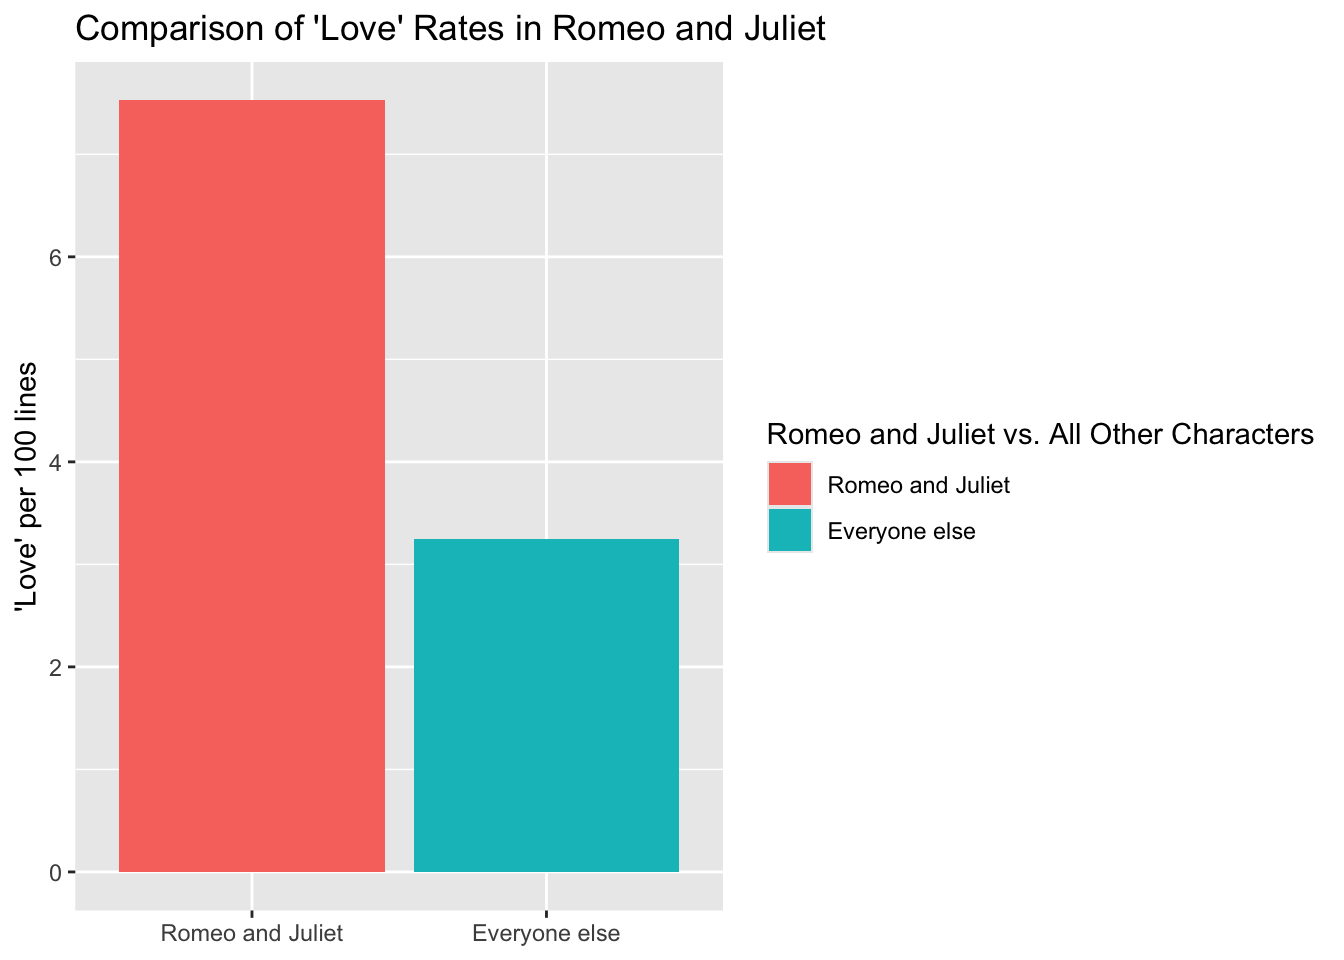
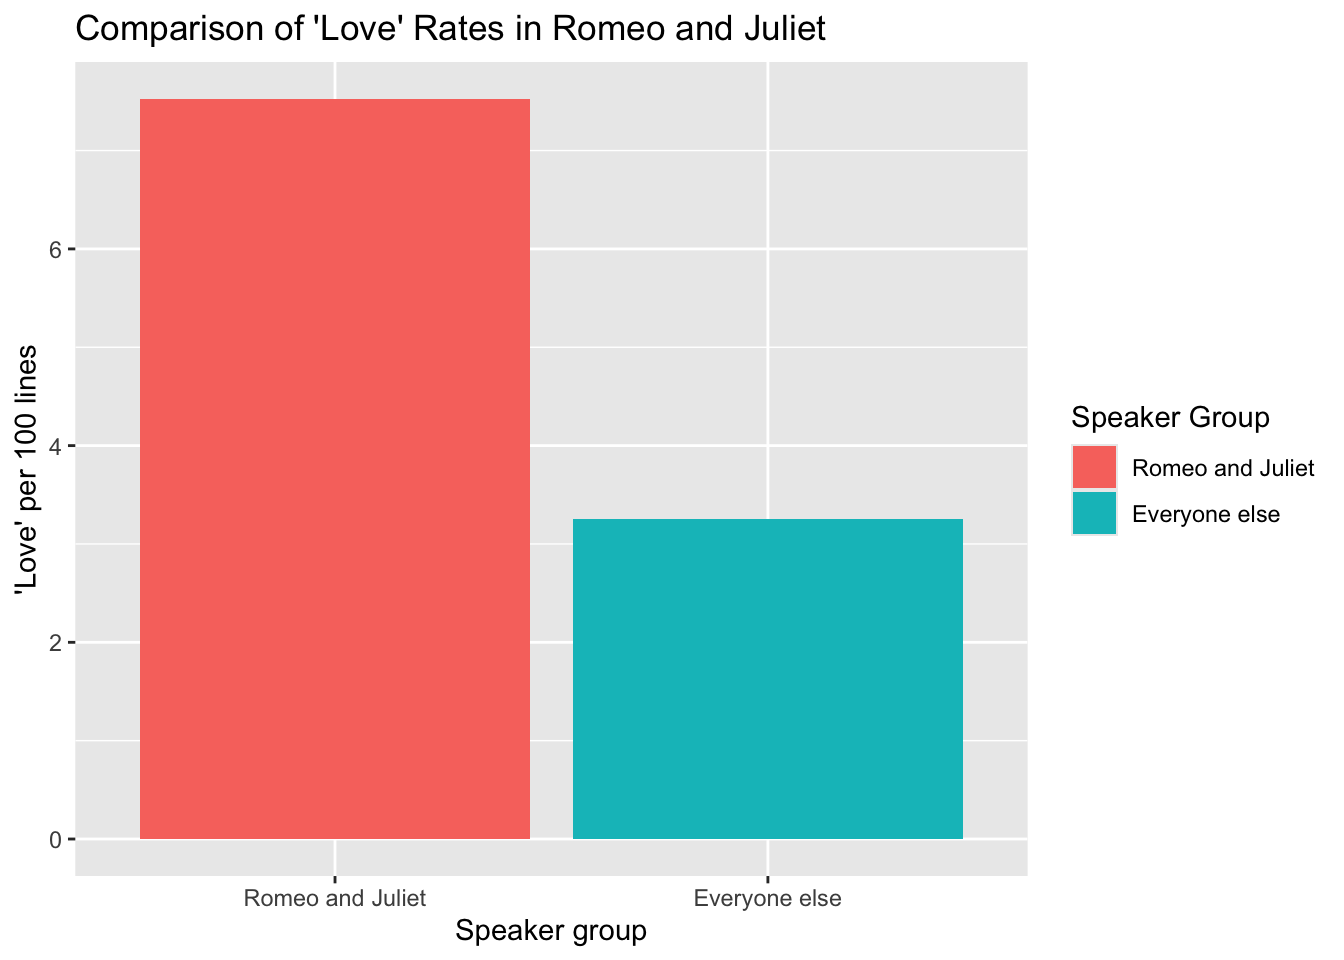
Project 2 (vF)

diff --git a/docs/shakespeare.html b/docs/shakespeare.html
@@ -381,7 +381,7 @@ pre > code.sourceCode > span > a:first-child::before { text-decoration: underlin
 </header>
 
 
-<p>This dataset contains dialogue from three of Shakespeare’s most recognized works: Hamlet, Macbeth, and Romeo and Juliet. I will only be working with Romeo and Juiliet, which was one of my favorite high school readings.</p>
+<p>This dataset contains dialogue from three of Shakespeare’s most recognized works: Hamlet, Macbeth, and Romeo and Juliet. I will only be working with Romeo and Juliet, which was one of my favorite high school readings. The two questions I aim to answer with these data visualizations are: 1. How frequently do Romeo and Juliet say the word ‘love’ compared to all other characters combined? 2. What are some words that come before ‘love’ and how do they vary across the two character groups (Romeo and Juliet vs.&nbsp;everyone else)?</p>
 <div class="cell">
 <details class="code-fold">
 <summary>Code</summary>
@@ -400,7 +400,7 @@ pre > code.sourceCode > span > a:first-child::before { text-decoration: underlin
 <span id="cb1-13"><a href="#cb1-13" aria-hidden="true" tabindex="-1"></a></span>
 <span id="cb1-14"><a href="#cb1-14" aria-hidden="true" tabindex="-1"></a><span class="fu">ggplot</span>(love_rates, <span class="fu">aes</span>(<span class="at">x =</span> randj_vs_everybodyelse, <span class="at">y =</span> love_rate, <span class="at">fill =</span> randj_vs_everybodyelse)) <span class="sc">+</span></span>
 <span id="cb1-15"><a href="#cb1-15" aria-hidden="true" tabindex="-1"></a>    <span class="fu">geom_col</span>() <span class="sc">+</span></span>
-<span id="cb1-16"><a href="#cb1-16" aria-hidden="true" tabindex="-1"></a>    <span class="fu">labs</span>(<span class="at">title =</span> <span class="st">"Comparison of 'Love' Rates in Romeo and Juliet"</span>, <span class="at">y =</span> <span class="st">"'Love' per 100 lines"</span>, <span class="at">x =</span> <span class="cn">NULL</span>, <span class="at">fill =</span> <span class="st">"Romeo and Juliet vs. All Other Characters"</span>)</span></code></pre></div><button title="Copy to Clipboard" class="code-copy-button"><i class="bi"></i></button></div>
+<span id="cb1-16"><a href="#cb1-16" aria-hidden="true" tabindex="-1"></a>    <span class="fu">labs</span>(<span class="at">title =</span> <span class="st">"Comparison of 'Love' Rates in Romeo and Juliet"</span>, <span class="at">y =</span> <span class="st">"'Love' per 100 lines"</span>, <span class="at">x =</span> <span class="st">"Speaker group"</span>, <span class="at">fill =</span> <span class="st">"Speaker Group"</span>)</span></code></pre></div><button title="Copy to Clipboard" class="code-copy-button"><i class="bi"></i></button></div>
 </details>
 <div class="cell-output-display">
 <div>
@@ -424,7 +424,7 @@ pre > code.sourceCode > span > a:first-child::before { text-decoration: underlin
 <span id="cb2-8"><a href="#cb2-8" aria-hidden="true" tabindex="-1"></a></span>
 <span id="cb2-9"><a href="#cb2-9" aria-hidden="true" tabindex="-1"></a><span class="fu">ggplot</span>(words_before_love, <span class="fu">aes</span>(<span class="at">x =</span> word_before_love, <span class="at">fill =</span> randj_vs_everybodyelse)) <span class="sc">+</span></span>
 <span id="cb2-10"><a href="#cb2-10" aria-hidden="true" tabindex="-1"></a>    <span class="fu">geom_bar</span>(<span class="at">position =</span> <span class="st">"dodge"</span>) <span class="sc">+</span></span>
-<span id="cb2-11"><a href="#cb2-11" aria-hidden="true" tabindex="-1"></a>    <span class="fu">labs</span>(<span class="at">y =</span> <span class="st">"Number of lines"</span>, <span class="at">x =</span> <span class="cn">NULL</span>, <span class="at">title =</span> <span class="st">"Distribution of Words That Precede 'Love' in Romeo and Juliet"</span>, <span class="at">fill =</span> <span class="st">"Romeo and Juliet vs. All Other Characters"</span>)</span></code></pre></div><button title="Copy to Clipboard" class="code-copy-button"><i class="bi"></i></button></div>
+<span id="cb2-11"><a href="#cb2-11" aria-hidden="true" tabindex="-1"></a>    <span class="fu">labs</span>(<span class="at">y =</span> <span class="st">"Number of lines"</span>, <span class="at">x =</span> <span class="st">"Word before 'love'"</span>, <span class="at">title =</span> <span class="st">"Distribution of Words That Precede 'Love' in Romeo and Juliet"</span>, <span class="at">fill =</span> <span class="st">"Speaker Group"</span>)</span></code></pre></div><button title="Copy to Clipboard" class="code-copy-button"><i class="bi"></i></button></div>
 </details>
 <div class="cell-output-display">
 <div>
@@ -434,9 +434,9 @@ pre > code.sourceCode > span > a:first-child::before { text-decoration: underlin
 </div>
 </div>
 </div>
-<p>This bar chart compares the distribution of three possessive words in the dialogue that precede ‘Love’ (case insensitive). I used a lookahead to capture the word before ‘love’ or ‘love’s’ in Shakespeare’s Romeo and Juliet. The two title characters say ‘my’ before ‘love’ much more often than all of the other characters combined (8 times vs.&nbsp;1), whereas ‘thy’ precedes love for all other characters one more time than for the two title characters (5 times vs.&nbsp;4). ‘Your’ comes before love one more time for all of the other characters (2 vs.&nbsp;1). There are only 21 total lines where my, thy, or your precede love, out of 123 total lines with a word before love; it is quite small. The gaps between character groups for the possessives ‘thy’ and ‘your’ are only one instance, so it doesn’t tell us much about the use of the possessives across the two groups. Romeo and Juliet are the main lovers in the play, and speak about their own feelings of love frequently, which likely explains why ‘my’ precedes the word ‘love’ more for the two title characters.</p>
-<p>Data source: [insert citation here]</p>
-<p>Original data: [insert citation here]</p>
+<p>This bar chart compares the distribution of three possessive words in the dialogue that precede ‘Love’ (case insensitive). I used a lookahead to capture the word before ‘love’ or ‘love’s’ in Shakespeare’s Romeo and Juliet. The two title characters say ‘my’ before ‘love’ much more often than all of the other characters combined (8 times vs.&nbsp;1), whereas ‘thy’ precedes love for all other characters one more time than for the title characters (5 times vs.&nbsp;4). ‘Your’ comes before love one more time for all of the other characters (2 vs.&nbsp;1). There are only 21 total lines where my, thy, or your precede love, out of 123 total lines where a word precedes ‘love’; the sample is quite small. The gaps between character groups for the possessives ‘thy’ and ‘your’ are only one instance, so it doesn’t tell us much about the use of the possessives across the two groups. Romeo and Juliet are the main lovers in the play, and speak about their own feelings of love frequently, which likely explains why ‘my’ precedes the word ‘love’ more for the two title characters.</p>
+<p>Data source: <a href="https://github.com/rfordatascience/tidytuesday/blob/main/data/2024/2024-09-17/readme.md">TidyTuesday, September 17, 2024</a></p>
+<p>Original data: Nicola Rennie (github username nrennie) compiled the <a href="https://github.com/nrennie/shakespeare">data</a>. It was originally obtained through MIT’s website, <a href="https://shakespeare.mit.edu">The Complete Works of Shakespeare</a>.</p>
 
 
 
